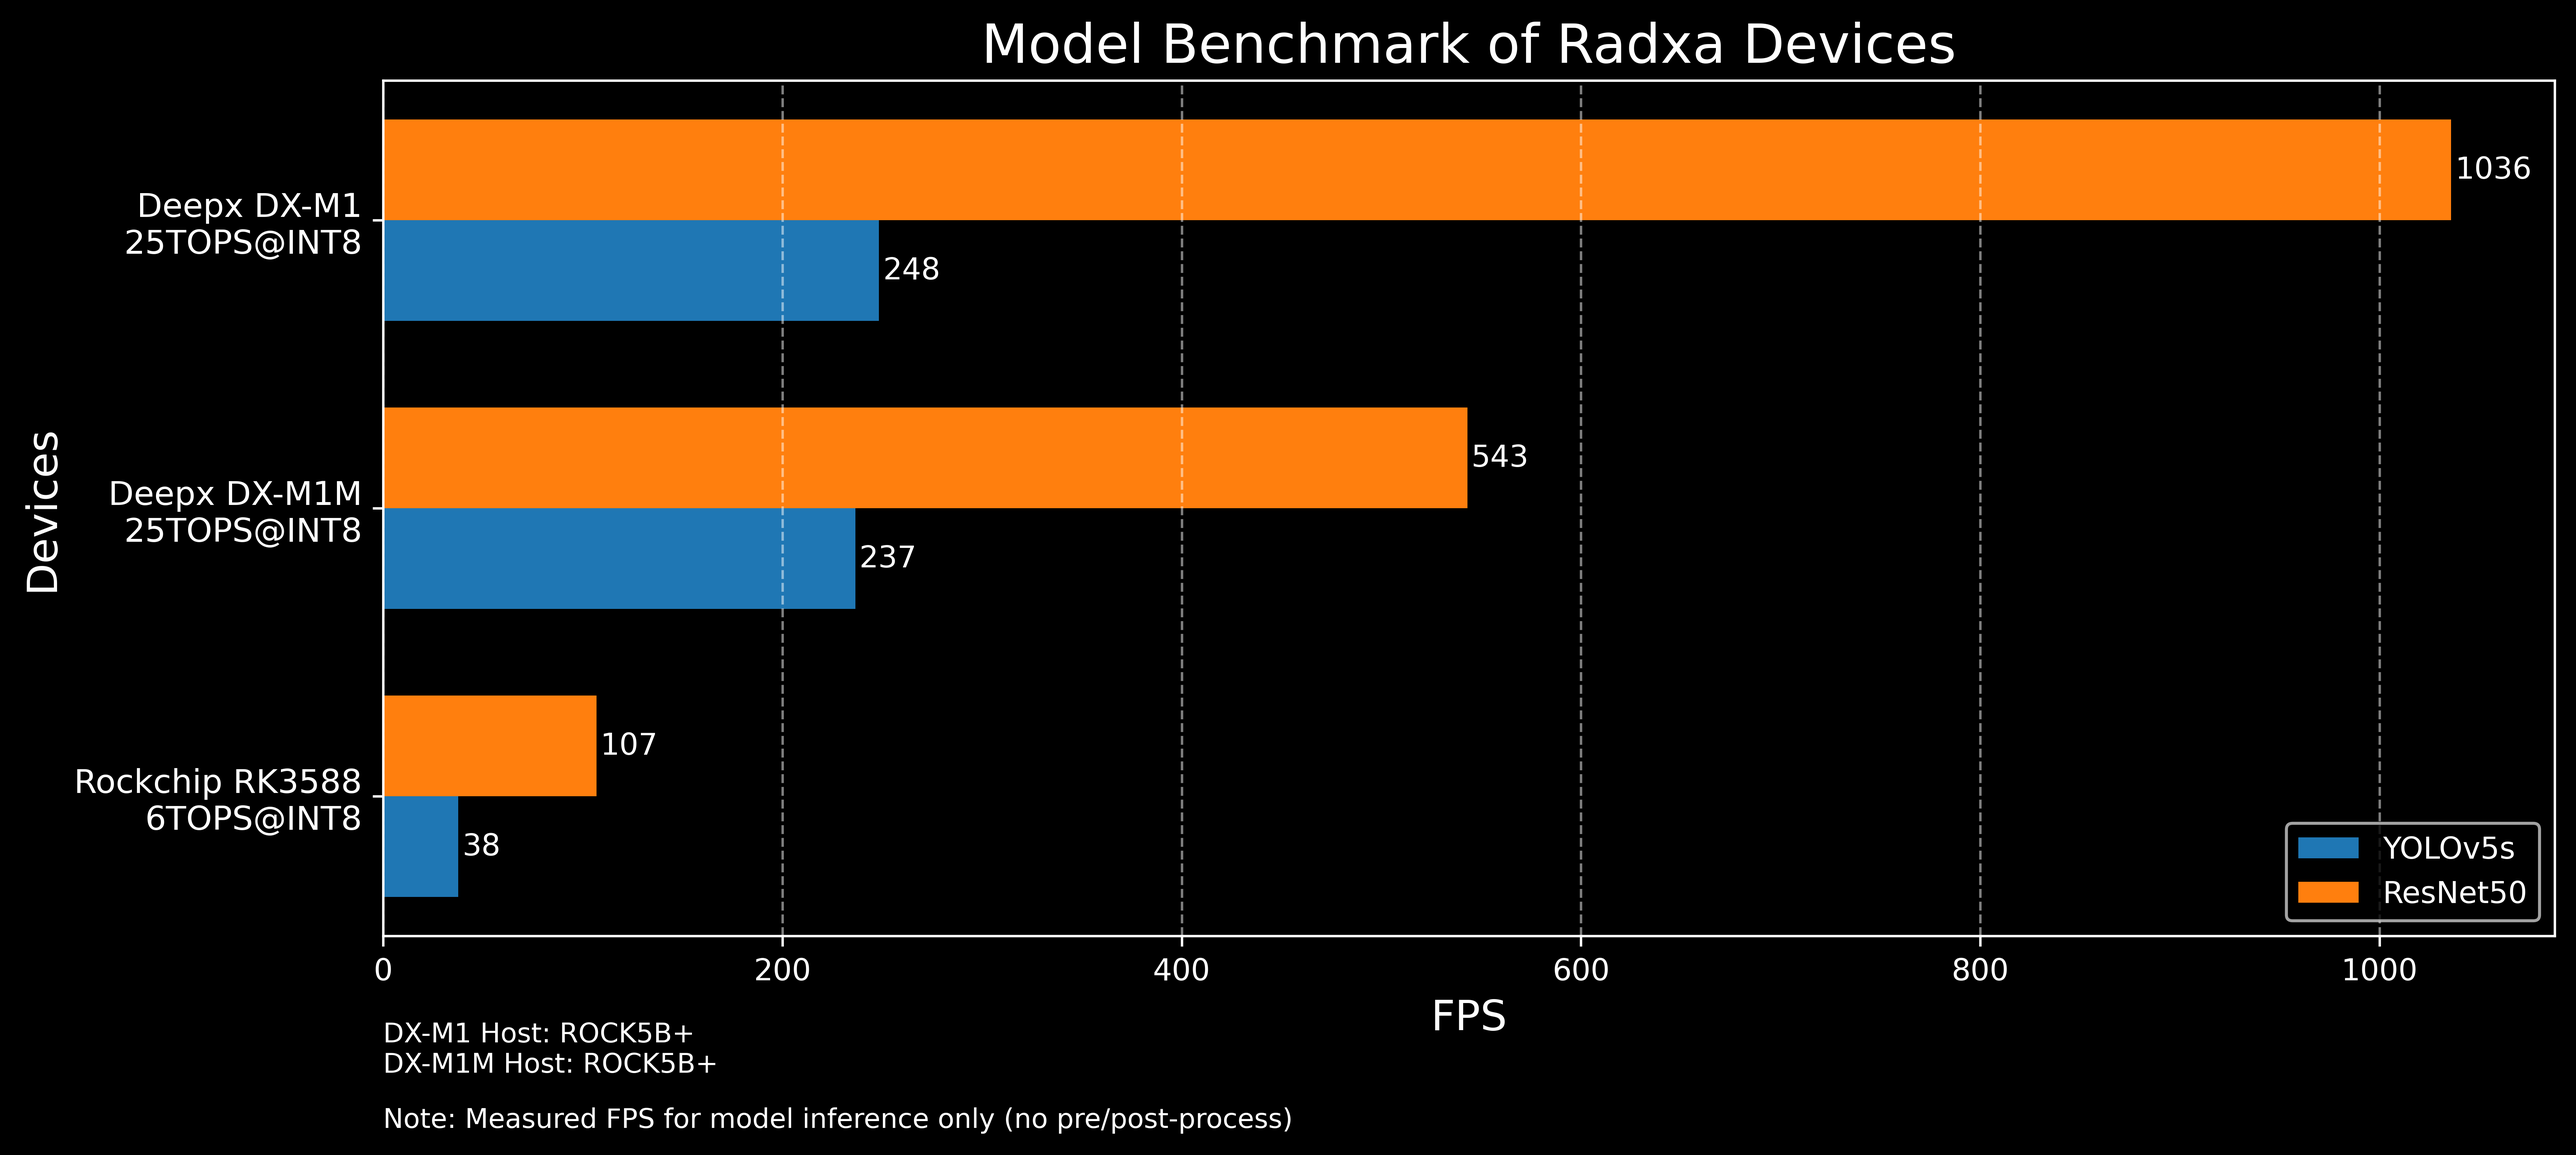
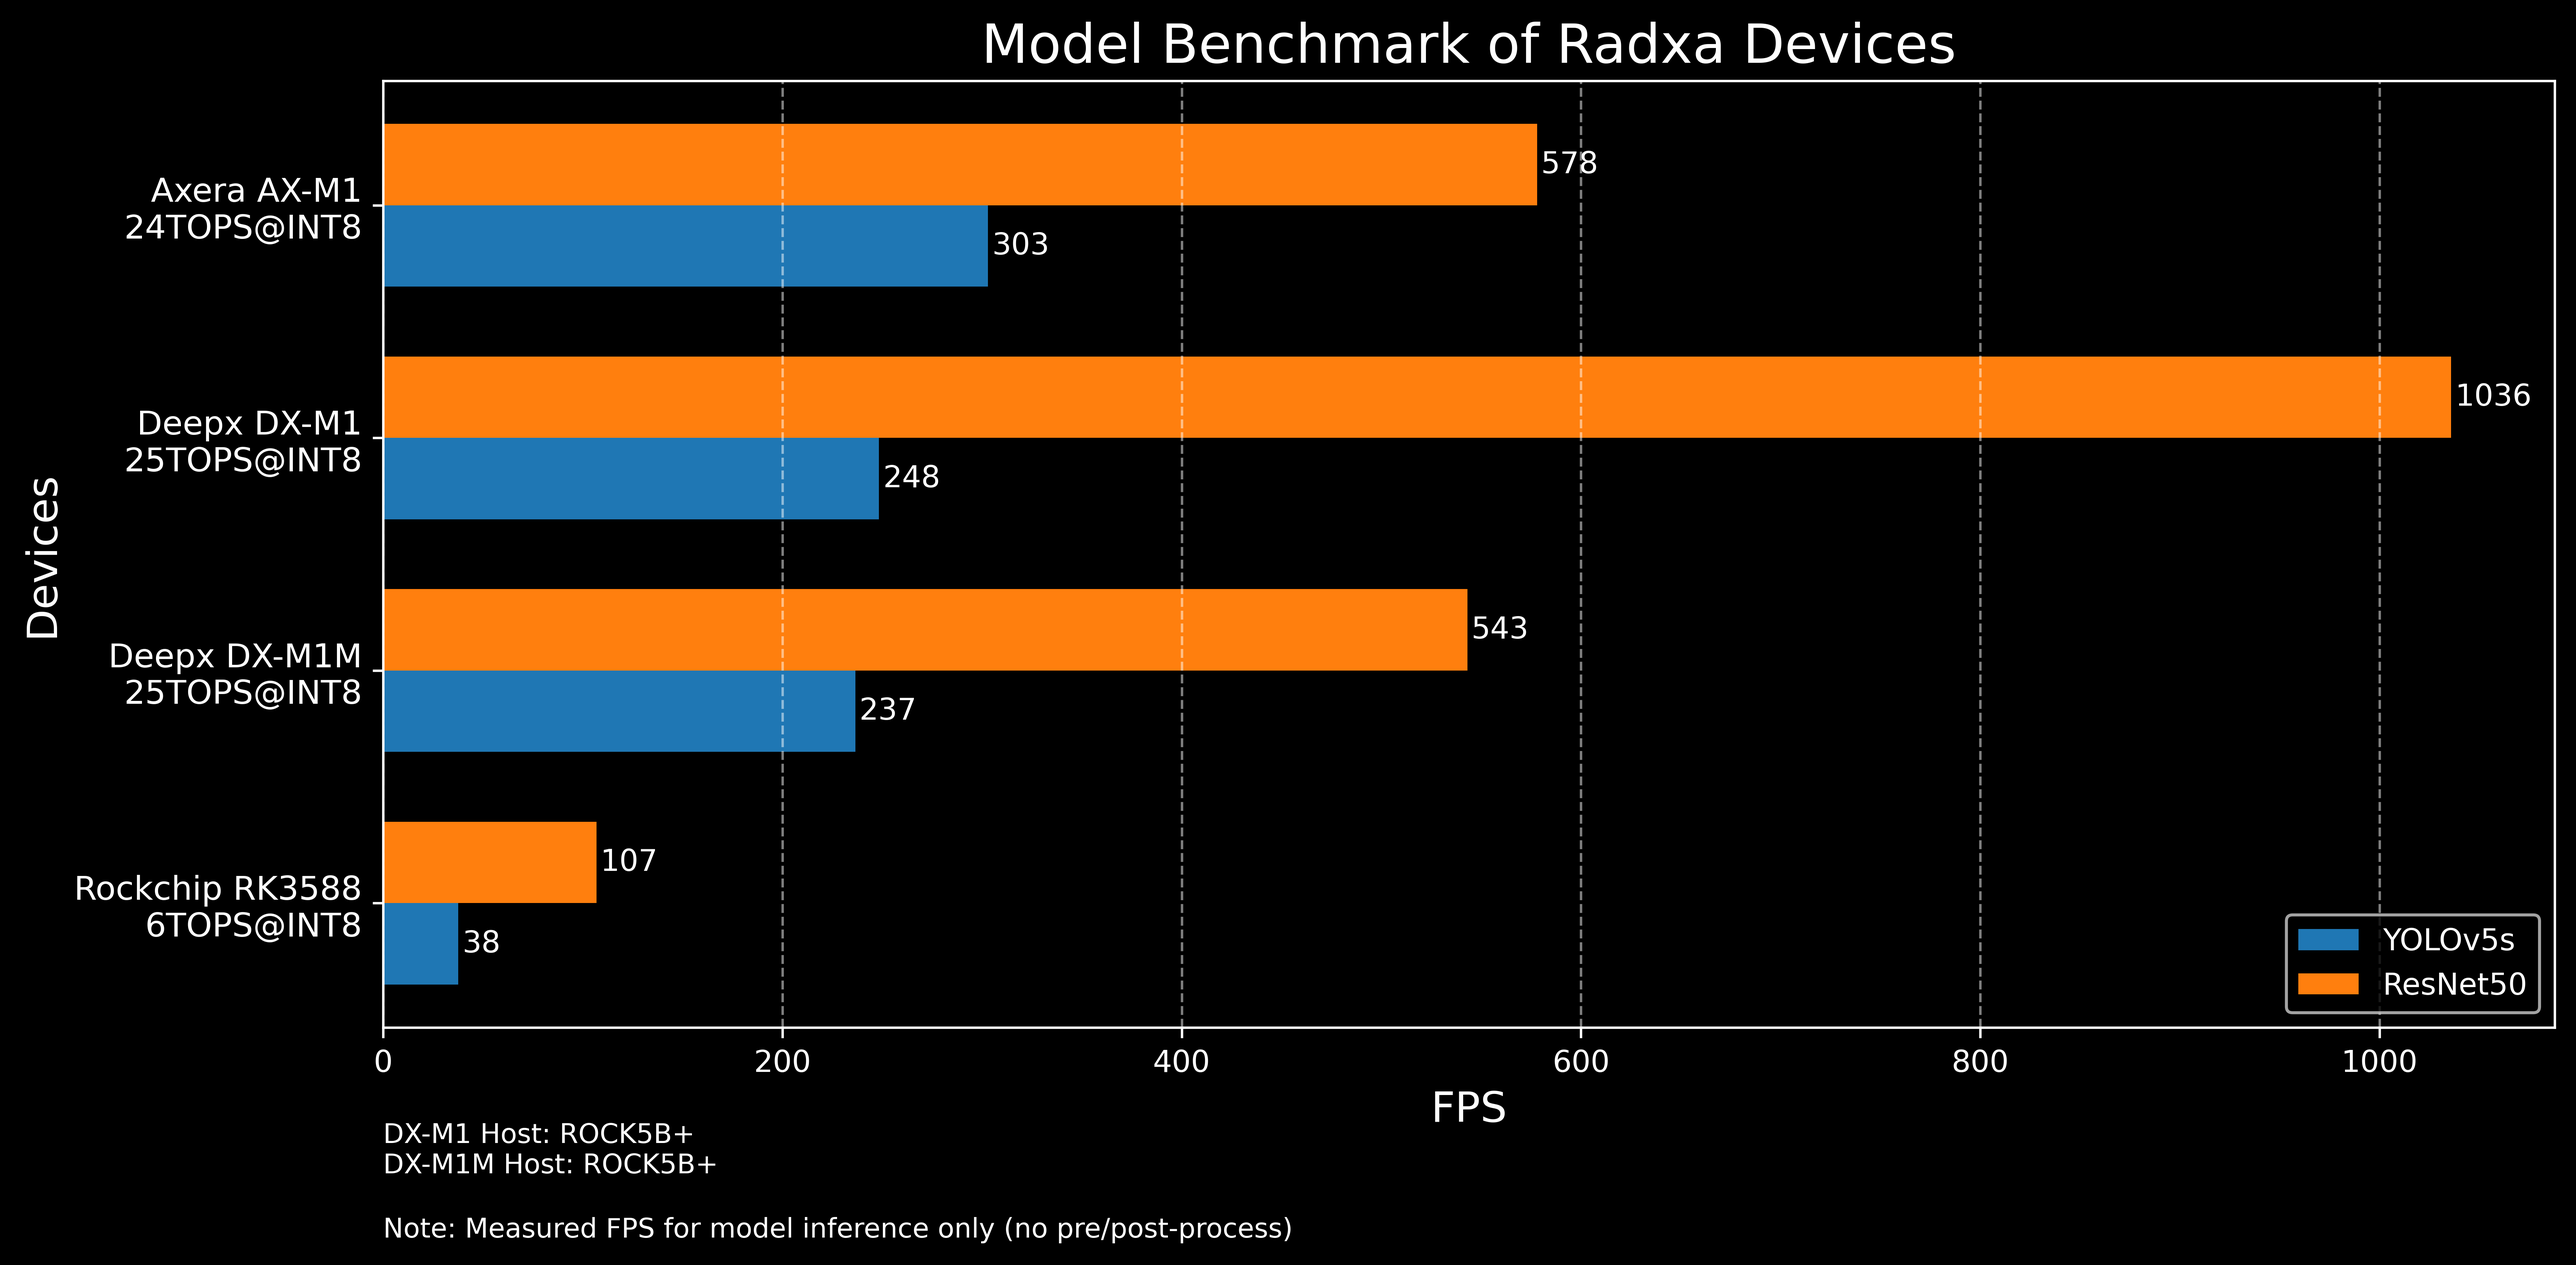
update axera AX650N benchmark data and add relevant files

diff --git a/pre-compiled_model/axera/README-YOLO.md b/pre-compiled_model/axera/README-YOLO.md
@@ -1,0 +1,83 @@
+# YOLOv5s Benchmark on AX650N
+
+简要说明：该模型使用 `pulsar2` 工具链编译为可在 AX650N 上运行的 `.axmodel`。本文档记录示例编译配置、运行/测试说明与简要性能结果。
+
+## 概要
+
+基准使用 YOLOv5s 的 ONNX 模型（`yolov5s-sim.onnx`）进行量化与编译，目标设备为 AX650N。输出文件 `yolov5s.axmodel` 位于 `yolo-benchmark/output`。
+
+## 先决条件
+
+- 主机已安装并配置好 `pulsar2` 工具链。
+- 源模型：`yolo-benchmark/yolov5s-sim.onnx`
+- 校准数据（用于量化）：`yolo-benchmark/coco_4.tar`（示例，按需替换）
+
+## 编译配置（示例）
+
+下面为用于量化/编译的 JSON 配置示例（已格式化）：
+
+```json
+{
+  "input": "yolo-benchmark/yolov5s-sim.onnx",
+  "output_dir": "yolo-benchmark/output",
+  "output_name": "yolov5s.axmodel",
+  "model_type": "ONNX",
+  "target_hardware": "AX650N",
+  "npu_mode": "NPU3",
+  "input_shapes": "input:1x3x640x640",
+  "quant": {
+    "input_configs": [
+      {
+        "tensor_name": "DEFAULT",
+        "calibration_dataset": "./yolo-benchmark/coco_4.tar",
+        "calibration_size": 4,
+        "calibration_mean": [0, 0, 0],
+        "calibration_std": [255.0, 255.0, 255.0]
+      }
+    ],
+    "calibration_method": "MinMax",
+    "precision_analysis": false
+  },
+  "input_processors": [
+    {
+      "tensor_name": "DEFAULT",
+      "tensor_format": "BGR",
+      "src_format": "BGR",
+      "src_dtype": "U8",
+      "src_layout": "NHWC"
+    }
+  ],
+  "output_processors": [
+    {
+      "tensor_name": "DEFAULT",
+      "dst_perm": [0, 2, 3, 1]
+    }
+  ],
+  "compiler": {
+    "check": 0
+  }
+}
+```
+
+编译命令示例：
+
+```bash
+pulsar2 build --config ./yolo-benchmark/config.json
+```
+
+说明：根据实际需求调整配置参数与路径。
+
+## 运行与测试
+
+将生成的 `yolov5s.axmodel` 推送到搭载 AX650N 的开发板后，可使用 axcl-cli 的 `axcl_run_model` 进行推理测试：
+
+```bash
+axcl_run_model -m yolov5s.axmodel -w 1 -l 1000
+```
+
+## 测试结果（示例）
+
+- 平均: 303 FPS  
+- 峰值: 304 FPS
+
+（结果受模型、量化配置、硬件与运行环境影响，实际值可能不同。）

diff --git a/pre-compiled_model/axera/README-Resnet.md b/pre-compiled_model/axera/README-Resnet.md
@@ -1,0 +1,76 @@
+# ResNet50 Benchmark on AX650N
+
+简要说明：该模型使用 `pulsar2` 工具链编译为可在 AX650N 上运行的 `.axmodel`。本文档记录示例编译配置、运行/测试说明与简要性能结果。
+
+## 概要
+
+基准使用 ResNet-50 v2 的 ONNX 模型（`resnet50-v2-7-sim.onnx`）进行量化与编译，目标设备为 AX650N。输出文件 `resnet.axmodel` 位于 `resnet-benchmark/output`。
+
+## 先决条件
+
+- 主机已安装并配置好 `pulsar2` 工具链。
+- 源模型：`resnet-benchmark/resnet50-v2-7-sim.onnx`
+- 校准数据（用于量化）：`resnet-benchmark/imagenet-32-images.tar`（示例，按需替换）
+
+## 编译配置（示例）
+
+下面为用于量化/编译的 JSON 配置示例（已格式化）：
+
+```json
+{
+  "input": "resnet-benchmark/resnet50-v2-7-sim.onnx",
+  "output_dir": "resnet-benchmark/output",
+  "output_name": "resnet.axmodel",
+  "model_type": "ONNX",
+  "target_hardware": "AX650N",
+  "npu_mode": "NPU3",
+  "input_shapes": "input:1x3x224x224",
+  "quant": {
+    "input_configs": [
+      {
+        "tensor_name": "DEFAULT",
+        "calibration_dataset": "resnet-benchmark/imagenet-32-images.tar",
+        "calibration_size": 32,
+        "calibration_mean": [123.675, 116.28, 103.53],
+        "calibration_std": [58.82, 58.82, 58.82]
+      }
+    ],
+    "calibration_method": "MinMax",
+    "precision_analysis": false
+  },
+  "input_processors": [
+    {
+      "tensor_name": "DEFAULT",
+      "tensor_format": "BGR",
+      "src_format": "BGR",
+      "src_dtype": "U8",
+      "src_layout": "NHWC",
+      "csc_mode": "NoCSC"
+    }
+  ],
+  "compiler": {"check": 0}
+}
+```
+
+编译命令示例：
+
+```bash
+pulsar2 build --config ./resnet-benchmark/config.json
+```
+
+说明：根据实际需求调整配置参数与路径。
+
+## 运行与测试
+
+将生成的 `resnet.axmodel` 推送到搭载 AX650N 的开发板后，可使用 axcl-cli 的 `axcl_run_model` 进行推理测试：
+
+```bash
+axcl_run_model -m resnet.axmodel -w 1 -l 1000
+```
+
+## 测试结果（示例）
+
+- 平均: 578 FPS  
+- 峰值: 585 FPS
+
+（结果受模型、量化配置、硬件与运行环境影响，实际值可能不同。）

diff --git a/README.md b/README.md
@@ -38,10 +38,11 @@ python3 export_resnet50.py
 ### Performance (FPS)
 
 | Device  | SoC    | DDR Type        | ResNet50-v-2-7 | YOLOv5s |
-|---------| ------ |-----------------|----------------|---------|
+|---------|--------|-----------------|----------------|---------|
 | DX-M1   | DX-M1  | LPDDR5 5600 MHz | 1035.92        | 248.39  |
 | DX-M1M  | DX-M1M | LPDDR4 3200 MHz | 543.08         | 236.51  |
 | Rock5B+ | RK3588 | LPDDR4 2400 MHz | 106.864        | 37.584  |
+| AX-M1   | AX-M1  | LPDDR4 2400 MHz | 578            | 303     |
 
 
 ### Bar chart
